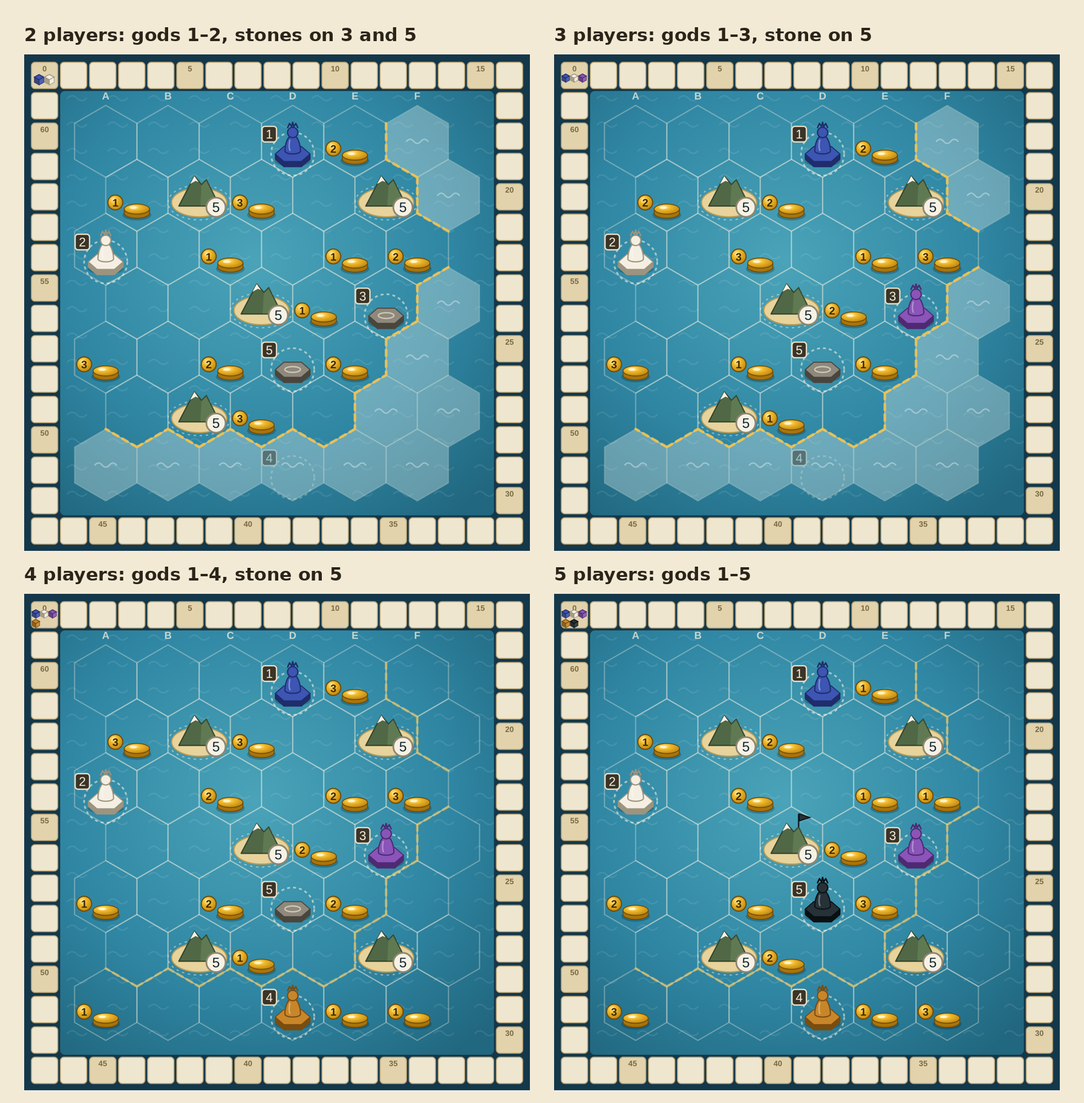
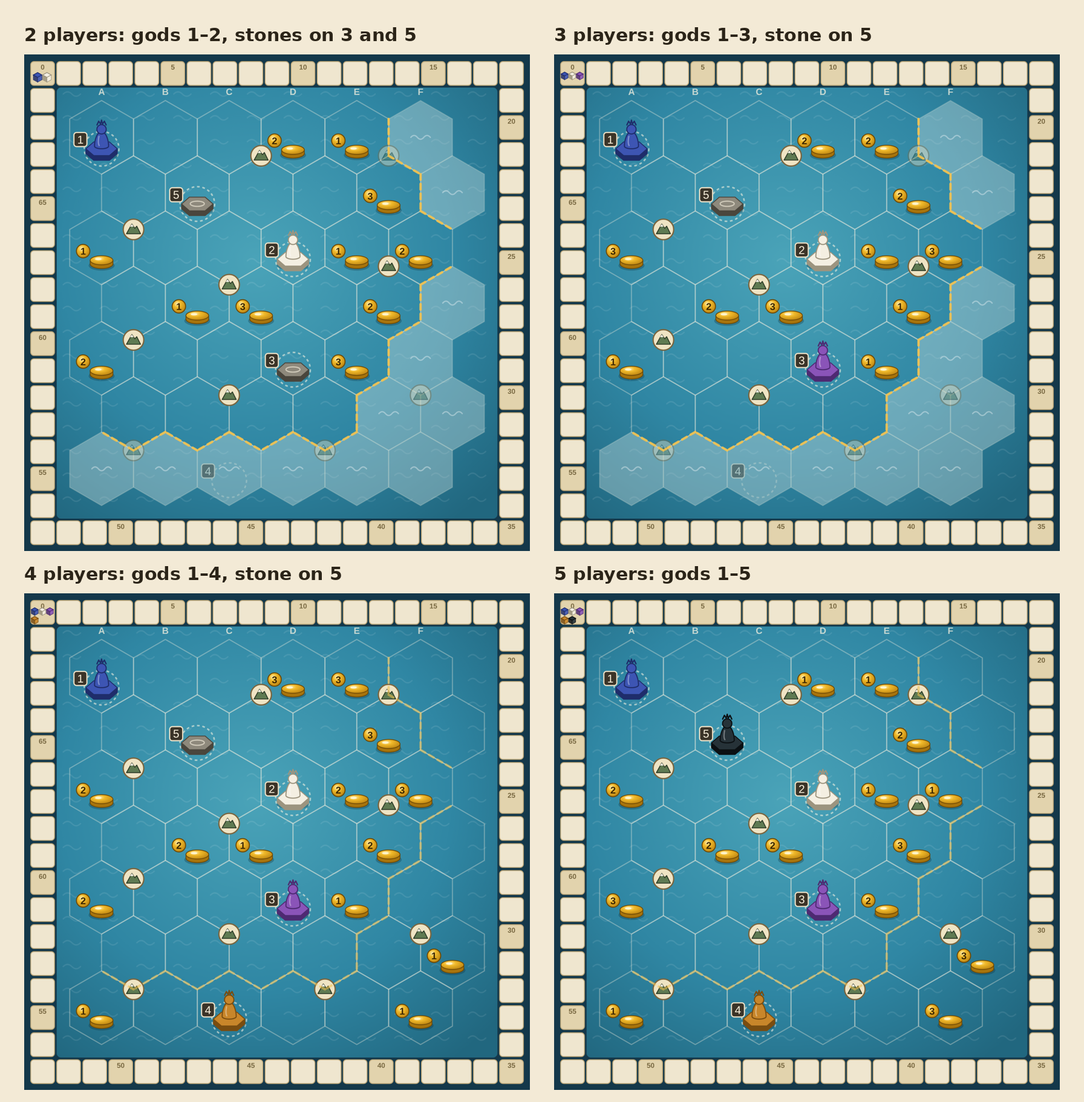
Corner mountains that seal
Replace the 5 sacred peaks with 10 mountains printed on corners where three
spaces meet (3 points each). A mountain seals when all 3 spaces hold shrines
and goes to whoever has the most there. Start spaces retuned for the new board.

Claude-Session: https://claude.ai/code/session_0173vR46VtyqsL94qra6LxaL

Changed region(s): [[0.0312, 0.0307, 1.0, 0.9835]]

diff --git a/index.html b/index.html
@@ -190,13 +190,14 @@ details.designer summary{cursor:pointer;font-weight:700}
       <details class="rules" id="rules">
         <summary>How to play</summary>
         <p>Each player is an island god raising a new world out of an empty sea. Your god carries stacks of earth across the waves, drops a layer on every space it crosses, and plants shrines where it comes to rest.</p>
-        <p><strong>Setup:</strong> the board is a tight 6 × 7 sea with 5 sacred peaks (5 points each) and printed pearl spots (shuffle the 1–3 pearls onto them). With 2 or 3 players, play only inside the dashed zone and leave the shallows outside it empty. Pick any player colours. Each player takes a god, a scoring cube and their shrines (7 / 6 / 5 / 4 with 2 / 3 / 4 / 5 players). The board has 5 numbered start spaces: the first player starts on 1, the second on 2, and so on, with one shrine on the space and their god standing on it. Put a grey stone shrine on every numbered space nobody is using inside the play area (2 players: spaces 3 and 5; 3 players: space 5; 4 players: space 5; 5 players: none). Put earth discs of each of the 5 land types in the supply: 10 each with 4 or 5 players (the full box, 50 discs), 8 with 3, 7 with 2. Each player also takes a player board and puts a marker at 0 on each of its five land-type tracks.</p>
+        <p><strong>Setup:</strong> the board is a tight 6 × 7 sea with 10 mountains printed on the corners where three spaces meet (3 points each) and printed pearl spots (shuffle the 1–3 pearls onto them). With 2 or 3 players, play only inside the dashed zone and leave the shallows outside it empty. Pick any player colours. Each player takes a god, a scoring cube and their shrines (7 / 6 / 5 / 4 with 2 / 3 / 4 / 5 players). The board has 5 numbered start spaces: the first player starts on 1, the second on 2, and so on, with one shrine on the space and their god standing on it. Put a grey stone shrine on every numbered space nobody is using inside the play area (2 players: spaces 3 and 5; 3 players: space 5; 4 players: space 5; 5 players: none). Put earth discs of each of the 5 land types in the supply: 10 each with 4 or 5 players (the full box, 50 discs), 8 with 3, 7 with 2. Each player also takes a player board and puts a marker at 0 on each of its five land-type tracks.</p>
         <ol>
           <li><strong>Gather earth:</strong> top up the stack under your god to 2 discs of one land type from the supply (if it already holds 2 or more, add 1). Your god stands on top. If your god can't travel from there, start from one of your other shrines instead.</li>
-          <li><strong>Travel:</strong> lift the whole stack and move it one space at a time, in any direction, dropping the bottom disc on each space you enter. You can't cross a peak or enter the same space twice in a turn. Your god lands last, on a space with no shrine.</li>
+          <li><strong>Travel:</strong> lift the whole stack and move it one space at a time, in any direction, dropping the bottom disc on each space you enter. You can't enter the same space twice in a turn. Mountains sit on corners, so they never block the way. Your god lands last, on a space with no shrine.</li>
           <li><strong>Offerings:</strong> a disc that would drop onto a rival's shrine is an offering. Drop it on top of their shrine (their island grows). They move that land type's marker up 1 on their player board, and you move your cube 1 space along the score track. Pearls offered go straight to them. Give rivals what they don't need. A disc dropped on a stone shrine is an offering too: you score 1, nobody's track moves, and a pearl dropped there goes back to the box.</li>
           <li><strong>Eruption (once per turn):</strong> if your god lands on a stack of 2 or more discs with no shrine, and at least one disc in it is the land type you took this turn, the island erupts. Collect its top disc, add 1 disc of your land type, and travel again.</li>
           <li><strong>Raise a shrine:</strong> collect the top disc where your god lands (an empty space gives nothing), then slip a shrine under your god. If all your shrines are already on the sea, move one of them here instead; the stack it stood on stays behind.</li>
+          <li><strong>Seal mountains:</strong> each mountain touches exactly 3 spaces. The moment all 3 hold shrines, it is sealed: the player with the most shrines there takes its 3 points for good. If players tie, nobody takes it. After that, those shrines are free to move on to the next mountain.</li>
         </ol>
         <p><strong>Collecting:</strong> whenever you collect an earth disc (the top disc where your god lands, or the top disc in an eruption), move that land type's marker up 1 on your player board (tracks stop at 25) and put the disc back in the supply. Pearls you keep.</p>
         <p><strong>Game end (the sea is full):</strong> earth only leaves the supply for the sea, and only comes back when someone collects it, so the supply slowly empties as the islands grow. The game ends the moment a player cannot gather earth, because no land type in the supply has enough discs.</p>
@@ -204,7 +205,7 @@ details.designer summary{cursor:pointer;font-weight:700}
           <li><strong>Land types:</strong> for each land type, the player furthest along that track scores 10 and the clear second scores 5. If players tie for the most, each of them scores 5 and there is no second place.</li>
           <li><strong>Pearls</strong> score their printed value.</li>
           <li><strong>Offerings:</strong> 1 point for every offering you made (your cube on the track).</li>
-          <li><strong>Sacred peaks:</strong> at the end, each peak goes to the player with the most shrines on the spaces around it. A tie scores nothing. Shrines can move, so a peak is never safe.</li>
+          <li><strong>Mountains:</strong> 3 points for each mountain you sealed and took. A mountain still open at the end goes to the player with the most shrines around it (a tie scores nothing).</li>
           <li><strong>Tiebreak:</strong> most discs collected.</li>
         </ul>
       </details>
@@ -246,7 +247,7 @@ details.designer summary{cursor:pointer;font-weight:700}
         <div class="field"><label for="optSpeed">Animation</label>
           <select id="optSpeed"><option value="170">Normal</option><option value="70">Fast</option><option value="0">Instant</option></select></div>
       </div>
-      <p class="note" style="margin-top:10px">Defaults from bot testing: tight 6 × 7 sea with 5 peaks and 14 pearl spots (10 inside the 2–3 god zone), offerings score 1 for the giver and raise the receiver's island, collected discs go back to the supply and the game ends when the sea is full, 7 / 8 / 10 / 10 discs per land type with 2 / 3 / 4 / 5 gods, 7 / 6 / 5 / 4 shrines. The open-sea option keeps the previous rules: 8 × 9 with 7 peaks (worth 5, scored at the end for the most shrines around them), 14 pearls, 6 / 5 / 4 shrines per god with 3 / 4 / 5 gods, 5 land types with 27 discs each (23 with 3 gods), fill to 2, eruption on stacks of 2+ that contain the land type you took. Lands score 10 for the most and 5 for a clear second (tied for most: 5 each).</p>
+      <p class="note" style="margin-top:10px">Defaults from bot testing: tight 6 × 7 sea with 10 corner mountains worth 3 (6 inside the 2–3 god zone) and 14 pearl spots (11 inside the zone), offerings score 1 for the giver and raise the receiver's island, collected discs go back to the supply and the game ends when the sea is full, 7 / 8 / 10 / 10 discs per land type with 2 / 3 / 4 / 5 gods, 7 / 6 / 5 / 4 shrines. The open-sea option keeps the previous rules: 8 × 9 with 7 peaks (worth 5, scored at the end for the most shrines around them), 14 pearls, 6 / 5 / 4 shrines per god with 3 / 4 / 5 gods, 5 land types with 27 discs each (23 with 3 gods), fill to 2, eruption on stacks of 2+ that contain the land type you took. Lands score 10 for the most and 5 for a clear second (tied for most: 5 each).</p>
     </details>
     <div style="display:flex;gap:8px;justify-content:flex-end;flex-wrap:wrap">
       <button class="btn" type="button" id="btnCancel">Cancel</button>
@@ -271,7 +272,7 @@ details.designer summary{cursor:pointer;font-weight:700}
 <script>
 "use strict";
 /* ---------------- constants ---------------- */
-const R = 30, S3 = Math.sqrt(3);
+const R = 34, S3 = Math.sqrt(3);   // roomy hexes: corner mountains sit where three spaces meet
 const DIRS = [[1,0],[1,-1],[0,-1],[-1,0],[-1,1],[0,1]];
 const ELEM = [
   {name:"Lava",   col:"#d4532b", edge:"#8e2e12", txt:"#ffffff"},
@@ -280,7 +281,7 @@ const ELEM = [
   {name:"Coral",  col:"#ec8fa4", edge:"#b0566c", txt:"#1a1a1a"},
   {name:"Basalt", col:"#5d6474", edge:"#2a2d35", txt:"#ffffff"},
 ];
-const ELEM_VAL = 10, PLANET_VAL = 5;
+const ELEM_VAL = 10, PLANET_VAL = 5, MTN_VAL = 3;
 const TRENCHES = false, SEALING = false;   // playtest 3: open sea, peaks stay contested until the end
 const CORE = 5;
 const PCOL = [
@@ -292,7 +293,7 @@ const SHRINES = {2: 7, 3: 6, 4: 5, 5: 4};
 const INK = "#10242e", CHALK = "#fff7e3";
 const DEFAULT_SUPPLY = {3: 23, 4: 27, 5: 27};   // open sea (8 × 9)
 const TIGHT_SUPPLY = {2: 7, 3: 8, 4: 10, 5: 10}   // recycled pool: collected discs go back to it;   // tight sea (6 × 7)
-const TIGHT = {"peaks": [7, 10, 20, 31, 34], "pearls": [4, 6, 8, 14, 16, 17, 21, 24, 26, 28, 32, 36, 40, 41], "starts": {"2": [3, 12], "3": [3, 12, 22], "4": [3, 12, 22, 39], "5": [3, 12, 22, 39, 27]}, "startNums": [3, 12, 22, 39, 27], "neutral": {"2": [22, 27], "3": [27], "4": [27], "5": []}, "zone": [0,  1,  2,  3,  4,  6,  7,  8,  9,  10,  12,  13,  14,  15,  16,  17,  18,  19,  20,  21,  22,  24,  25,  26,  27,  28,  30,  31,  32,  33], "zoneFor": [2, 3]};   // the printed 6 × 7 board; 2-3 gods play inside the inner zone
+const TIGHT = {"peaks": [], "mountains": [[14, 19, 20], [26, 31, 32], [18, 24, 25], [16, 17, 22], [6, 12, 13], [2, 3, 8], [4, 5, 10], [29, 34, 35], [30, 36, 37], [33, 39, 40]], "pearls": [3, 4, 10, 12, 16, 17, 19, 20, 22, 24, 28, 35, 36, 41], "starts": {"2": [0, 15], "3": [0, 15, 27], "4": [0, 15, 27, 38], "5": [0, 15, 27, 38, 7]}, "startNums": [0, 15, 27, 38, 7], "neutral": {"2": [27, 7], "3": [7], "4": [7], "5": []}, "zone": [0, 1, 2, 3, 4, 6, 7, 8, 9, 10, 12, 13, 14, 15, 16, 17, 18, 19, 20, 21, 22, 24, 25, 26, 27, 28, 30, 31, 32, 33], "zoneFor": [2, 3]};   // the printed 6 × 7 board; 2-3 gods play inside the inner zone
 const TM = 34;   // width of the score-track frame around the map
 const NEL = ELEM.length;
 const COLS = "ABCDEFGHIJKLMN";
@@ -339,9 +340,10 @@ function makeTight(cfg) {   // the printed board: fixed peaks, pearl spots and s
   const planet = Array(N).fill(0); TIGHT.peaks.forEach(i => planet[i] = 1);
   const out = Array(N).fill(false); if (zoned) for (let i = 0; i < N; i++) if (!inZ.has(i)) { planet[i] = 2; out[i] = true; }
   const planetVal = {}; TIGHT.peaks.forEach(i => planetVal[i] = PLANET_VAL);
+  const mtn = {}; (TIGHT.mountains || []).forEach((t, j) => { if (zoned && !t.every(c => inZ.has(c))) return; mtn[100 + j] = t.slice(); planetVal[100 + j] = MTN_VAL; });
   const neutral = (TIGHT.neutral[P] || []).slice();   // stone shrines sit on the start spaces nobody uses
   const spots = TIGHT.pearls.filter(i => (!zoned || inZ.has(i)) && !neutral.includes(i)); const vals = shuffle(spots.map((_, k) => 1 + (k % 3)), rand);
-  return {seed: cfg.seed, w: W, h: H, tight: true, zoned, out, planet, planetVal, starts: TIGHT.starts[P].slice(), neutral, cores: spots.map((c, k) => [c, vals[k]])};
+  return {seed: cfg.seed, w: W, h: H, tight: true, zoned, out, planet, planetVal, mtn, starts: TIGHT.starts[P].slice(), neutral, cores: spots.map((c, k) => [c, vals[k]])};
 }
 function makeBoard(cfg) {
   if (cfg.map === "tight") return makeTight(cfg);
@@ -552,7 +554,7 @@ function applyMove(s, p, m, wantSteps) {
     }
     ns.owner[T] = p; ns.cat[T] = ns.st[T].length; ns.planted[p]++; ns.ship[p] = T; ns.outs[p] = ns.outs[p].concat([T]);
     if (steps) steps.push({t: "claim", i: T, p});
-    if (SEALING) for (const pi of nbl[T]) if (BOARD.planet[pi] === 1 && !(pi in ns.sealed) && orbit(pi).every(x => ns.owner[x] >= 0)) {
+    for (const pi of (SEALING ? nbl[T].filter(x => BOARD.planet[x] === 1) : []).concat(mtnsAt(T))) if (!(pi in ns.sealed) && orbit(pi).every(x => ns.owner[x] >= 0)) {   // all its spaces hold shrines: sealed
       const w = orbitLeader(ns, pi); ns.sealed[pi] = w; seals.push({i: pi, w});
       if (steps) steps.push({t: "seal", i: pi, w});
     }
@@ -561,11 +563,14 @@ function applyMove(s, p, m, wantSteps) {
 }
 // quick default for which outpost to pull up: one not touching an open planet, oldest first
 function pickPull(s, p) {
-  const nearOpen = o => nbl[o].some(x => BOARD.planet[x] === 1 && !(x in s.sealed));
+  const nearOpen = o => nbl[o].some(x => BOARD.planet[x] === 1 && !(x in s.sealed)) || mtnsAt(o).some(k => !(k in s.sealed));
   const c = s.outs[p].find(o => !nearOpen(o)); return c !== undefined ? c : s.outs[p][0];
 }
 // a planet's orbit: the sectors around it. Sealed the moment all are claimed.
-const orbit = i => nbl[i].filter(x => !BOARD.planet[x]);
+const orbit = i => (BOARD.mtn && BOARD.mtn[i]) || nbl[i].filter(x => !BOARD.planet[x]);
+const mtnsAt = x => BOARD.mtn ? Object.keys(BOARD.mtn).map(Number).filter(k => BOARD.mtn[k].includes(x)) : [];
+const peakKeys = () => Object.keys(BOARD.planetVal).map(Number).filter(k => (BOARD.mtn && BOARD.mtn[k]) || BOARD.planet[k] === 1);
+const pkName = k => BOARD.mtn && BOARD.mtn[k] ? "mountain " + BOARD.mtn[k].map(coord).join("/") : "peak " + coord(k);
 function orbitCounts(s, i) { const cnt = Array(s.P).fill(0); orbit(i).forEach(x => { if (s.owner[x] >= 0 && s.owner[x] < s.P) cnt[s.owner[x]]++; }); return cnt; }
 function orbitLeader(s, i) { const cnt = orbitCounts(s, i), mx = Math.max(...cnt); return mx > 0 && cnt.filter(v => v === mx).length === 1 ? cnt.indexOf(mx) : -2; }
 function score(s) {
@@ -587,7 +592,7 @@ function score(s) {
   }
   const planetWinner = {};
   // planetWinner: sealed → {sealed:true, w} (w = -2 when a tie removed it); open → {sealed:false, w: current leader or -1/-2}
-  for (let i = 0; i < N; i++) if (BOARD.planet[i] === 1) {
+  for (const i of peakKeys()) {
     if (i in s.sealed) { const w = s.sealed[i]; if (w >= 0) pl[w] += BOARD.planetVal[i]; planetWinner[i] = {sealed: true, w}; }
     else { const cnt = orbitCounts(s, i), mx = Math.max(...cnt), w = mx === 0 ? -1 : orbitLeader(s, i); planetWinner[i] = {sealed: false, w}; if (w >= 0) pl[w] += BOARD.planetVal[i]; }
   }
@@ -666,18 +671,35 @@ function stackSVG(c, s, i) {
   }
   if (n && st[n - 1].c === CORE && atk !== n) out += `<ellipse cx="${(c.x - 3).toFixed(1)}" cy="${(y + step - 1.2).toFixed(1)}" rx="3" ry="1.1" fill="#fff6cf" opacity=".95"/>`;
   const tag = (x, y, txt, fill) => `<text x="${x.toFixed(1)}" y="${y.toFixed(1)}" text-anchor="middle" font-family="Figtree, sans-serif" font-size="10" font-weight="800" fill="${fill}" stroke="${INK}" stroke-width="2.6" paint-order="stroke" stroke-linejoin="round">${txt}</text>`;
-  if (n > 1) out += tag(c.x + 18, c.y + 10, n, CHALK);
-  if (coreVal) out += `<circle cx="${(c.x - 18).toFixed(1)}" cy="${(c.y + 6).toFixed(1)}" r="6.2" fill="url(#gGold)" stroke="#6e4a06" stroke-width=".9"/><text x="${(c.x - 18).toFixed(1)}" y="${(c.y + 9.4).toFixed(1)}" text-anchor="middle" font-family="Figtree, sans-serif" font-size="9" font-weight="800" fill="#3d2802">${coreVal}</text>`;
+  if (n > 1) out += tag(c.x + 18, c.y + 6, n, CHALK);   // kept clear of the corners, where mountains sit
+  if (coreVal) out += `<circle cx="${(c.x - 17).toFixed(1)}" cy="${(c.y + 3).toFixed(1)}" r="6.2" fill="url(#gGold)" stroke="#6e4a06" stroke-width=".9"/><text x="${(c.x - 17).toFixed(1)}" y="${(c.y + 6.4).toFixed(1)}" text-anchor="middle" font-family="Figtree, sans-serif" font-size="9" font-weight="800" fill="#3d2802">${coreVal}</text>`;
   return out;
 }
 function startNumSVG(c, i, dim) {   // printed start space: a carved ring with its number; with N players, gods start on 1 to N
   const k = TIGHT.startNums.indexOf(i); if (k < 0) return "";
-  const x = c.x - 19.5, y = c.y - 6;
-  return `<g opacity="${dim ? .45 : 1}" pointer-events="none"><circle cx="${c.x}" cy="${c.y + STACK_BASE - 1}" r="18" fill="none" stroke="${CHALK}" stroke-opacity=".55" stroke-width="1.4" stroke-dasharray="2.5 2.5"/>` +
+  const x = c.x - 19.5, y = c.y + 2;
+  return `<g opacity="${dim ? .45 : 1}" pointer-events="none"><circle cx="${c.x}" cy="${c.y + STACK_BASE - 1}" r="16" fill="none" stroke="${CHALK}" stroke-opacity=".55" stroke-width="1.4" stroke-dasharray="2.5 2.5"/>` +
     startBadge(x, y, k + 1) + `</g>`;
 }
 function startBadge(x, y, n) {   // a carved stone tablet (not a coin, so it can't be mistaken for a pearl or a peak value)
   return `<rect x="${(x - 6).toFixed(1)}" y="${(y - 6.5).toFixed(1)}" width="12" height="13" rx="2.4" fill="#3b3428" stroke="#e9dfc6" stroke-width="1.1"/><text x="${x.toFixed(1)}" y="${(y + 3.7).toFixed(1)}" text-anchor="middle" font-family="Lilita One, sans-serif" font-size="10.5" fill="#f4ecd8">${n}</text>`;
+}
+function mountainSVG(k, t, st, dim) {   // a corner mountain: printed where its three spaces meet
+  const x = t.reduce((a, c) => a + cells[c].x, 0) / 3, y = t.reduce((a, c) => a + cells[c].y, 0) / 3;
+  const sealed = st && st.sealed, w = st ? st.w : -1, gone = sealed && w < 0;
+  const ring = sealed && w >= 0 ? PCOL[w].col : "#efe4c4", edge = sealed && w >= 0 ? PCOL[w].edge : "#7a6640";
+  let g = `<g opacity="${dim ? .4 : 1}"><title>${dim ? "Mountain (not in play)" : sealed ? (w >= 0 ? "Sealed: " + pname(w) + " took it (" + MTN_VAL + ")" : "Sealed in a tie: nobody took it") : "Mountain worth " + MTN_VAL + ": sealed when all 3 spaces around it hold shrines"}</title>`;
+  g += `<circle cx="${x.toFixed(1)}" cy="${y.toFixed(1)}" r="9.5" fill="${ring}" stroke="${edge}" stroke-width="${sealed && w >= 0 ? 2.2 : 1.2}"/>`;
+  g += `<path d="M${(x - 6.5).toFixed(1)} ${(y + 4).toFixed(1)} L${(x - 1.5).toFixed(1)} ${(y - 5).toFixed(1)} L${(x + 1.2).toFixed(1)} ${(y - 1).toFixed(1)} L${(x + 3).toFixed(1)} ${(y - 3).toFixed(1)} L${(x + 6.5).toFixed(1)} ${(y + 4).toFixed(1)} Z" fill="${gone ? "#9aa29a" : "#5f7a52"}" stroke="#2f3d29" stroke-width=".8" stroke-linejoin="round"/>`;
+  g += `<path d="M${(x - 3.2).toFixed(1)} ${(y - 2.5).toFixed(1)} L${(x - 1.5).toFixed(1)} ${(y - 5).toFixed(1)} L${(x + 0.2).toFixed(1)} ${(y - 2.6).toFixed(1)} Z" fill="#f4f0e6"/>`;
+  if (gone) g += `<path d="M${(x - 5).toFixed(1)} ${(y - 5).toFixed(1)} L${(x + 5).toFixed(1)} ${(y + 5).toFixed(1)} M${(x + 5).toFixed(1)} ${(y - 5).toFixed(1)} L${(x - 5).toFixed(1)} ${(y + 5).toFixed(1)}" stroke="${INK}" stroke-width="1.8" stroke-linecap="round" opacity=".75"/>`;
+  return g + `</g>`;
+}
+function mountainsSVG(s) {
+  if (!BOARD.tight || !TIGHT.mountains) return "";
+  const PW = score(s).planetWinner; let g = "";
+  TIGHT.mountains.forEach((t, j) => { const k = 100 + j; g += mountainSVG(k, t, PW[k], !(BOARD.mtn && BOARD.mtn[k])); });
+  return g;
 }
 function render(dispState) {
   const s = dispState || UI.disp || G; const svg = $("board");
@@ -721,6 +743,7 @@ function render(dispState) {
     base += stackSVG(c, s, i) + `</g>`;
     if (legal.has(i)) top += `<polygon class="legal" points="${hexPoints(c.x, c.y, R - 2.5)}" fill="none" stroke="${CHALK}" stroke-width="${UI.origin === i ? 3.4 : 2.4}" pointer-events="none"/>`;
   }
+  base += mountainsSVG(s);
   for (let q = 0; q < s.P; q++) {
     if ((UI.mode === "aim" || UI.anim) && q === G.cur) continue;
     const at = s.ship[q] >= 0 ? s.ship[q] : BOARD.starts[q]; top += shipSVG(cells[at], q, stackTop(s, at));
@@ -861,7 +884,7 @@ function renderLegend() {
     `<span class="el"><span class="dot core"></span><span>Pearl <b>1–3</b></span></span>` +
     `<span class="el">${sw(16, 22, "-8 -26 16 30", godSVG(0, 0, 0))}<span>God: stands on your newest shrine and travels from there</span></span>` +
     `<span class="el">${sw(22, 14, "-11 -6 22 14", hexPlateSVG(0, 0, 10, 3.5, PCOL[0].col, PCOL[0].edge, PCOL[0].edge))}<span>Shrine: claims the space under it</span></span>` +
-    `<span class="el">${sw(18, 16, "-9 -9 18 16", `<ellipse cx="0" cy="3" rx="8.5" ry="4" fill="#e7d39b"/><path d="M-6 4 L-1 -7 L1 -4 L2.5 -6 L6 4 Z" fill="#5f7a52"/>`)}<span>Sacred peak <b>5</b>: at the end, the most shrines around it takes it (a tie scores nothing). Flag = current leader.</span></span>` +
+    (BOARD.mtn ? `<span class="el">${sw(20, 20, "-10 -10 20 20", `<circle r="9.5" fill="#efe4c4" stroke="#7a6640" stroke-width="1.2"/><path d="M-6.5 4 L-1.5 -5 L1.2 -1 L3 -3 L6.5 4 Z" fill="#5f7a52"/>`)}<span>Mountain <b>${MTN_VAL}</b>: sits where 3 spaces meet. The moment all 3 hold shrines it is sealed and the most shrines there takes it (a tie: nobody). Ringed in the winner's colour.</span></span>` : `<span class="el">${sw(18, 16, "-9 -9 18 16", `<ellipse cx="0" cy="3" rx="8.5" ry="4" fill="#e7d39b"/><path d="M-6 4 L-1 -7 L1 -4 L2.5 -6 L6 4 Z" fill="#5f7a52"/>`)}<span>Sacred peak <b>5</b>: at the end, the most shrines around it takes it (a tie scores nothing). Flag = current leader.</span></span>`) +
     (CFG.giftPts ? `<span class="el">${sw(14, 14, "-1 -1 10 10", cubeSVG(0, 0, 0, 8))}<span>Score track: move your cube 1 space for every offering you make. Each space is a point.</span></span>` : "") +
     (BOARD.tight ? `<span class="el">${sw(14, 15, "-7 -7.5 14 15", startBadge(0, 0, 1))}<span>Start spaces: first player on 1, second on 2, and so on. Player colours don't matter.</span></span>` +
       `<span class="el">${sw(22, 14, "-11 -6 22 14", hexPlateSVG(0, 0, 10, 3.5, "#8e897c", "#4a463d", "#4a463d"))}<span>Stone shrine: on every numbered space nobody uses. Discs dropped on it are offerings (1 point to you).</span></span>` : "") +
@@ -890,7 +913,7 @@ function renderPanels() {
       <span class="pname">${esc(pp.name)} ${pp.bot ? "<small>bot</small>" : ""}</span>
       <span class="ptotal">${sc.total[q]}</span>
       ${CFG.recycle ? `<span class="pboard" aria-label="Player board">${playerBoardSVG(q)}</span>` : `<span class="hangar" aria-label="Hangar">${ELEM.map((e, k) => `<span class="hg"><span class="dot" style="background:${e.col}"></span><b>${G.hangar[q][k]}</b></span>`).join("")}<span class="hg"><span class="dot core"></span><b>${G.cores[q]}</b></span></span>`}
-      <span class="pmeta"><span>Lands <b>${sc.el[q]}</b></span><span>Pearls <b>${G.cores[q]}</b></span><span>Peaks <b>${sc.pl[q]}</b></span><span>Captured <b>${G.caps[q]}</b></span>${CFG.giftPts ? `<span>Offerings given <b>${sc.gp[q]}</b></span>` : ""}<span>Offerings in <b>${G.gifted[q]}</b></span><span>Shrines <b>${G.outs[q].length}${CFG.outposts ? "/" + CFG.outposts : ""}</b></span></span>
+      <span class="pmeta"><span>Lands <b>${sc.el[q]}</b></span><span>Pearls <b>${G.cores[q]}</b></span><span>Mountains <b>${sc.pl[q]}</b></span><span>Captured <b>${G.caps[q]}</b></span>${CFG.giftPts ? `<span>Offerings given <b>${sc.gp[q]}</b></span>` : ""}<span>Offerings in <b>${G.gifted[q]}</b></span><span>Shrines <b>${G.outs[q].length}${CFG.outposts ? "/" + CFG.outposts : ""}</b></span></span>
     </div>`).join("");
   $("supply").innerHTML = ELEM.map((e, k) => `<span class="hg"><span class="dot" style="background:${e.col}"></span>${e.name} <b>${G.supply[k]}</b></span>`).join("");
   let t = `<tr><th>Land</th>${CFG.players.map((pp, q) => `<th><span class="pchip" style="width:12px;height:12px;border-width:1.5px;background:${PCOL[q].col};vertical-align:-1px"></span></th>`).join("")}</tr>`;
@@ -941,7 +964,7 @@ function renderPreview(scBefore) {
         <dt>God lands, shrine on</dt><dd>${m.target !== null ? coord(m.target) + (m.target !== m.final ? " (next to " + coord(m.final) + ")" : "") : "nowhere to plant"}</dd>
         <dt>Captures</dt><dd>${r.captured.length ? r.captured.map(x => discDot(x) + " " + discName(x)).join(", ") : "nothing"}</dd>
         <dt>Offerings to rivals</dt><dd>${r.gifts}</dd>
-        ${r.seals.length ? `<dt>Seals</dt><dd>${r.seals.map(x => `peak ${coord(x.i)} → ${x.w >= 0 ? pname(x.w) : "tie, removed"}`).join("<br>")}</dd>` : ""}
+        ${r.seals.length ? `<dt>Seals</dt><dd>${r.seals.map(x => `${pkName(x.i)} → ${x.w >= 0 ? pname(x.w) : "tie, nobody"}`).join("<br>")}</dd>` : ""}
         <dt>Your score</dt><dd>${scBefore.total[p]} → ${sa.total[p]} (${d >= 0 ? "+" : ""}${d})</dd>
       </dl>
       <div class="delta">Rivals: ${others}</div>
@@ -965,7 +988,7 @@ function renderFreePanel(scBefore) {
         <dt>Captures</dt><dd>${r.captured.length ? r.captured.map(x => discDot(x) + " " + discName(x)).join(", ") : "nothing"}</dd>
         <dt>Offerings to rivals</dt><dd>${r.gifts}</dd>
         ${r.pulled !== null ? `<dt>Shrine moved from</dt><dd>${coord(r.pulled)}</dd>` : ""}
-        ${r.seals.length ? `<dt>Seals</dt><dd>${r.seals.map(x => `peak ${coord(x.i)} → ${x.w >= 0 ? pname(x.w) : "tie, removed"}`).join("<br>")}</dd>` : ""}
+        ${r.seals.length ? `<dt>Seals</dt><dd>${r.seals.map(x => `${pkName(x.i)} → ${x.w >= 0 ? pname(x.w) : "tie, nobody"}`).join("<br>")}</dd>` : ""}
         <dt>Your score</dt><dd>${scBefore.total[p]} → ${sa.total[p]} (${d >= 0 ? "+" : ""}${d})</dd>
       </dl>
       <div class="delta">Rivals: ${others}</div>
@@ -1113,7 +1136,7 @@ function commit(m) {
   });
 }
 function logSeals(seals) {
-  for (const x of seals) addLog(x.w >= 0 ? `Peak ${coord(x.i)} sealed: ${pname(x.w)} takes it (${BOARD.planetVal[x.i]}).` : `Peak ${coord(x.i)} sealed in a tie and is removed.`);
+  for (const x of seals) addLog(x.w >= 0 ? `The ${pkName(x.i)} is sealed: ${pname(x.w)} takes it (${BOARD.planetVal[x.i]}).` : `The ${pkName(x.i)} is sealed in a tie: nobody takes it.`);
 }
 function advance() { G.cur = (G.cur + 1) % G.P; if (G.cur === 0) G.round++; startTurn(); }
 function animate(D, startIdx, steps, done) {
@@ -1156,7 +1179,7 @@ function finish() {
   const tieNote = order.length > 1 && sc.total[order[0]] === sc.total[order[1]] && winners.length === 1 ? " (tiebreak: most captured discs)" : "";
   $("endTitle").textContent = winners.length > 1 ? "A shared victory" : `${CFG.players[winners[0]].name} ${CFG.players[winners[0]].name === "You" ? "rule" : "rules"} the sea${tieNote}`;
   $("endReason").textContent = `${CFG.players[G.ender].name} could not travel in round ${G.round}, so the game ends.`;
-  $("finalTable").innerHTML = `<tr><th>God</th><th>Lands</th><th>Pearls</th><th>Peaks</th>${CFG.giftPts ? "<th>Offerings</th>" : ""}<th>Captured</th><th>Total</th></tr>` +
+  $("finalTable").innerHTML = `<tr><th>God</th><th>Lands</th><th>Pearls</th><th>Mountains</th>${CFG.giftPts ? "<th>Offerings</th>" : ""}<th>Captured</th><th>Total</th></tr>` +
     order.map(q => `<tr class="${key(q) === best ? "win" : ""}"><td><span class="el"><span class="pchip" style="width:14px;height:14px;background:${PCOL[q].col}"></span>${pname(q)}</span></td><td>${sc.el[q]}</td><td>${G.cores[q]}</td><td>${sc.pl[q]}</td>${CFG.giftPts ? `<td>${sc.gp[q]}</td>` : ""}<td>${G.caps[q]}</td><td><b>${sc.total[q]}</b></td></tr>`).join("");
   $("endScreen").hidden = false;
 }

diff --git a/README.md b/README.md
@@ -10,7 +10,7 @@ Each player is an island god. On your turn you pick up a stack of earth, carry i
 
 ## Components
 
-- 1 board: a 6 × 7 hex sea with 5 sacred peaks, 14 pearl spots and 5 numbered start spaces, plus a dashed line marking the smaller 2–3 player sea. A score track runs around the edge.
+- 1 board: a 6 × 7 hex sea with 10 mountains printed on the corners where three spaces meet, 14 pearl spots and 5 numbered start spaces, plus a dashed line marking the smaller 2–3 player sea. A score track runs around the edge.
 - 50 earth discs: 10 each of 5 land types (lava, jungle, sand, coral, basalt).
 - 14 pearls worth 1–3.
 - Per player: 1 god, 7 shrines, 1 scoring cube and 1 player board with five 0–25 land tracks.
@@ -29,11 +29,12 @@ Each player is an island god. On your turn you pick up a stack of earth, carry i
 
 1. **Gather earth.** Top up the stack under your god to 2 discs of one land type from the supply. If the stack already has 2 or more, add 1.
 2. **Travel.** Lift the whole stack and move it one space at a time, in any direction, dropping the bottom disc on each space you enter.
-   - You can't cross a peak or enter the same space twice in a turn.
+   - You can't enter the same space twice in a turn. Mountains sit on corners, so they never block the way.
    - Your god lands last, on a space with no shrine.
 3. **Offerings.** A disc you drop on a rival's shrine stays on top of it. They move that land type's marker up 1, and you move your cube up 1 on the score track. A disc you drop on a stone shrine is also an offering: you score 1 and nobody's track moves.
 4. **Eruption (once per turn).** If your god lands on an unclaimed stack of 2 or more that contains your land type, the island erupts. Collect its top disc, add 1 disc of your land type, and travel again.
 5. **Raise a shrine.** Collect the top disc where your god lands, then slip a shrine under your god. If all your shrines are already out, move one of them here instead.
+6. **Seal mountains.** Each mountain touches exactly 3 spaces. The moment all 3 hold shrines, the mountain is sealed: whoever has the most shrines there takes it for 3 points. If players tie, nobody takes it. Once a mountain is sealed, the shrines around it are free to move on to the next one.
 
 **Collecting.** Each earth disc you collect moves that land type's marker up 1 on your player board, to a maximum of 25. The disc then goes back to the supply. Pearls you keep.
 
@@ -42,7 +43,7 @@ Each player is an island god. On your turn you pick up a stack of earth, carry i
 The game ends the moment a player can't gather earth because the supply has run dry. Then score:
 
 - **Land types:** for each land type, the furthest along that track scores 10 and a clear second scores 5. If players tie for the most, each of them scores 5.
-- **Sacred peaks:** 5 each, to the player with the most shrines around the peak. A tie scores nothing.
+- **Mountains:** 3 for each mountain you sealed and took. A mountain still open at the end goes to the player with the most shrines around it (a tie scores nothing).
 - **Pearls:** their printed value.
 - **Offerings:** 1 point per offering you made.
 - **Tiebreak:** most discs collected.
